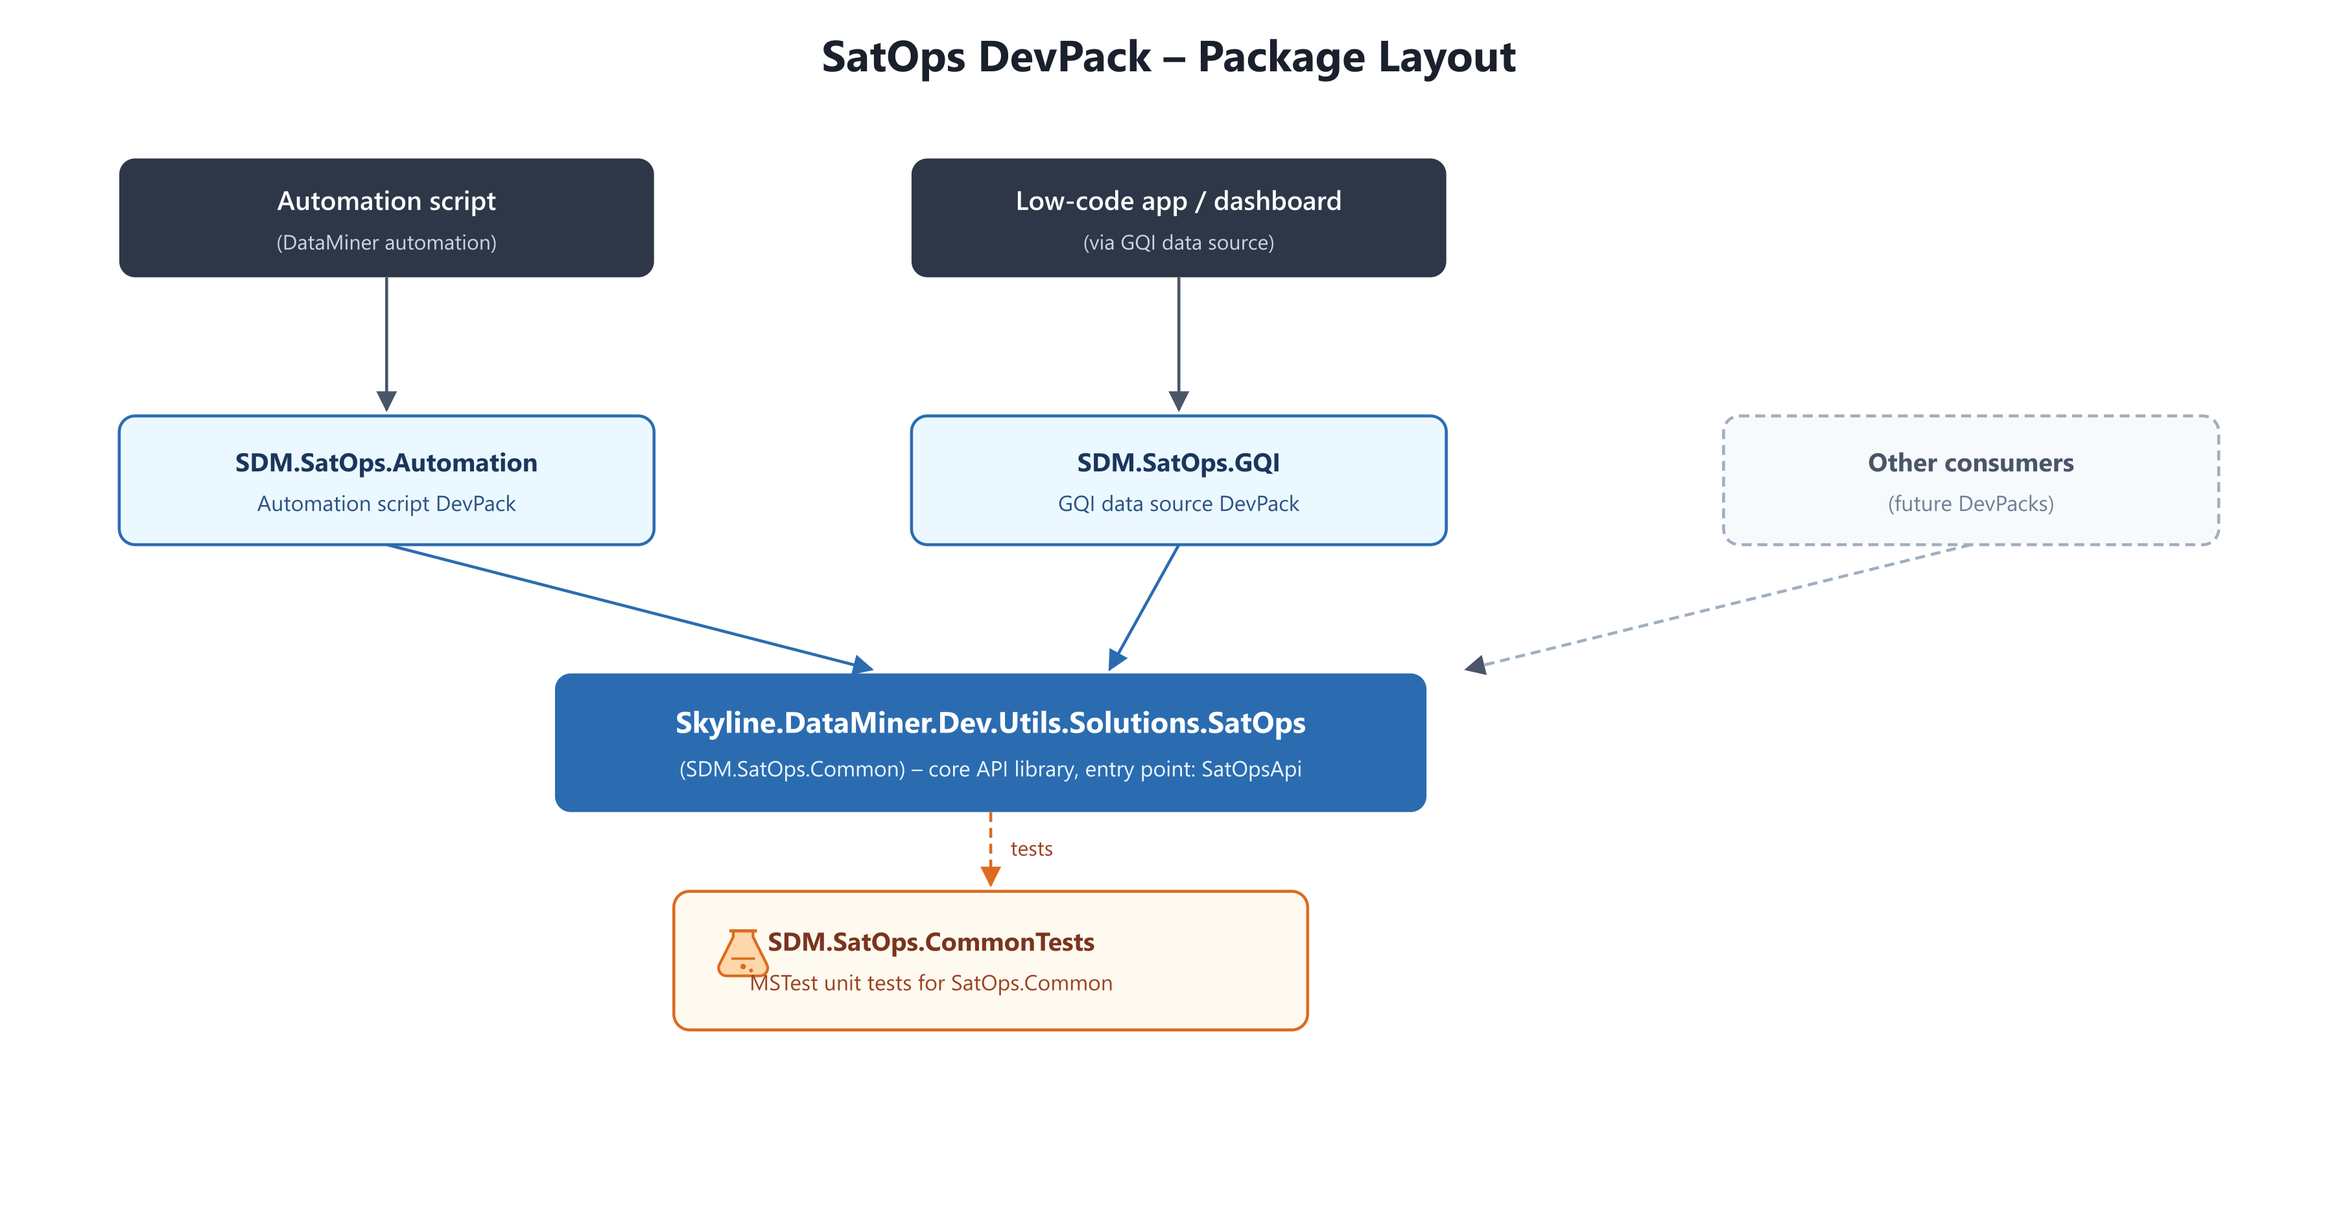
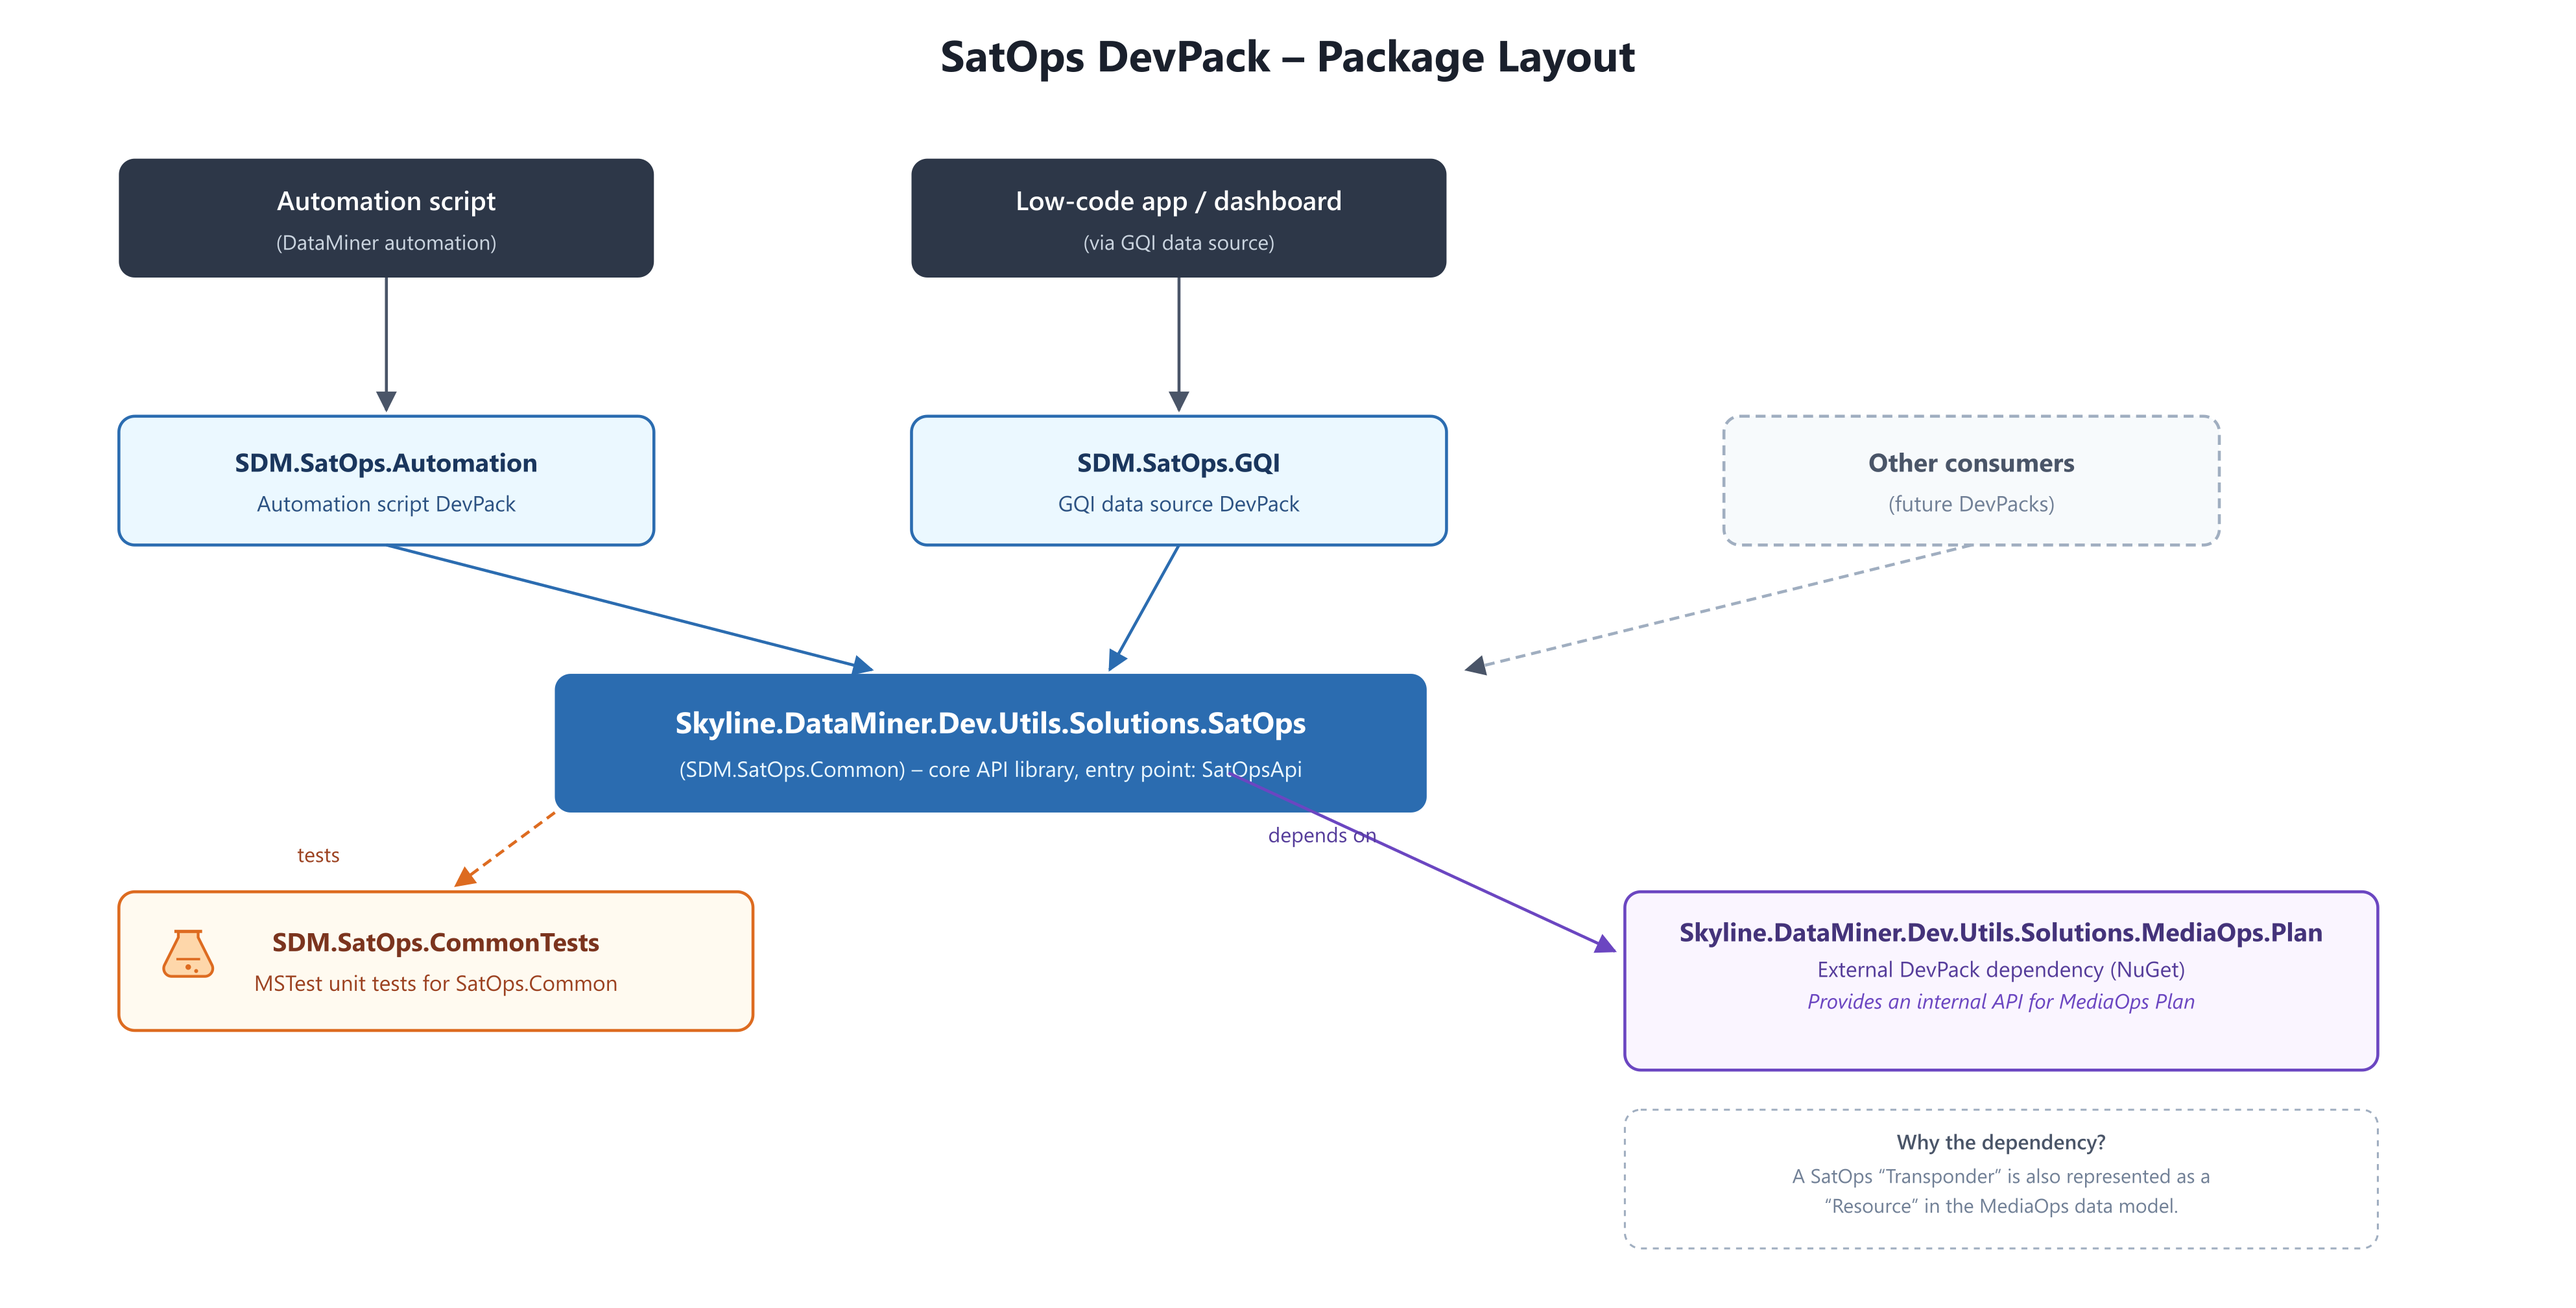
docs: show MediaOps.Plan dependency in architecture diagram
The core SatOps library depends on Skyline.DataMiner.Dev.Utils.Solutions.MediaOps.Plan
because a SatOps Transponder is also represented as a Resource in the MediaOps
data model (see TransponderResourceCreationMiddleware). Adds this dependency, with
an explanatory note, to docs/architecture.svg/.png and both READMEs.

diff --git a/README.md b/README.md
@@ -39,3 +39,5 @@ The `SDM.SatOps.GQI` and `SDM.SatOps.Automation` packages are thin DevPacks that
 Every repository is built as a small pipeline: the public interface (e.g. `IBeamRepository`) is implemented by a repository-specific **decorator middleware** (e.g. `BeamRepositoryMiddleware`), which optionally forwards the call to a **validation middleware** (e.g. `BeamValidationMiddleware`) before reaching the actual **repository** (e.g. `BeamRepository`) that talks to DataMiner DOM instances through `DomHelper`. This keeps validation/business rules decoupled from persistence, and lets new cross-cutting behavior be added without touching the storage code.
 
 The domain entities also form a hierarchy: a `Satellite` owns `Beam`s and `Transponder`s, a `Transponder` owns `TransponderPlan`s, and each `TransponderPlan` owns `TransponderPlanRow`s and `TransponderSlot`s. Validation middleware enforces that these parent references exist before a child entity can be created or updated.
+
+The core library also depends on `Skyline.DataMiner.Dev.Utils.Solutions.MediaOps.Plan`: a SatOps `Transponder` is also represented as a `Resource` in the MediaOps data model, so `TransponderResourceCreationMiddleware` keeps a matching MediaOps resource in sync whenever a transponder is created or updated.

diff --git a/Skyline.DataMiner.Dev.Utils.Solutions.SatOps/README.md b/Skyline.DataMiner.Dev.Utils.Solutions.SatOps/README.md
@@ -41,5 +41,7 @@ Every repository is built as a small pipeline: the public interface (e.g. `IBeam
 
 The domain entities also form a hierarchy: a `Satellite` owns `Beam`s and `Transponder`s, a `Transponder` owns `TransponderPlan`s, and each `TransponderPlan` owns `TransponderPlanRow`s and `TransponderSlot`s. Validation middleware enforces that these parent references exist before a child entity can be created or updated.
 
+The core library also depends on `Skyline.DataMiner.Dev.Utils.Solutions.MediaOps.Plan`: a SatOps `Transponder` is also represented as a `Resource` in the MediaOps data model, so `TransponderResourceCreationMiddleware` keeps a matching MediaOps resource in sync whenever a transponder is created or updated.
+
 <!-- Uncomment below and add more info to provide more information about how to use this package. -->
 <!-- ## Getting Started -->
